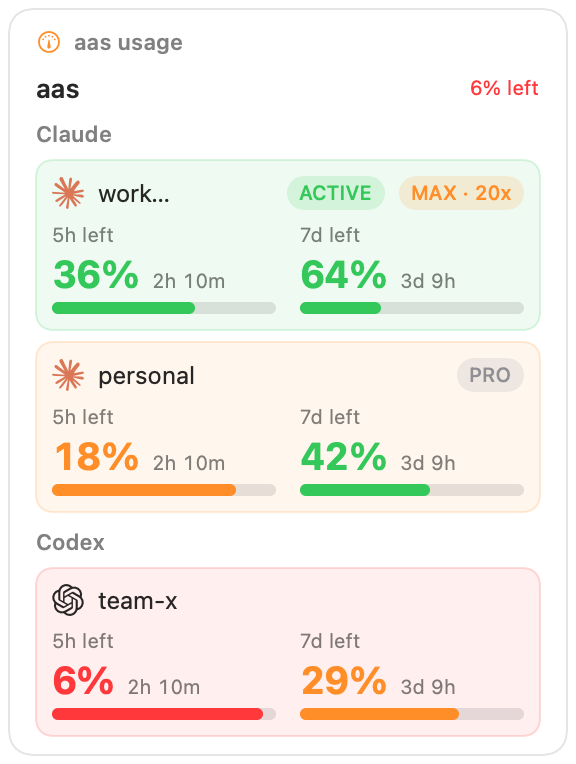
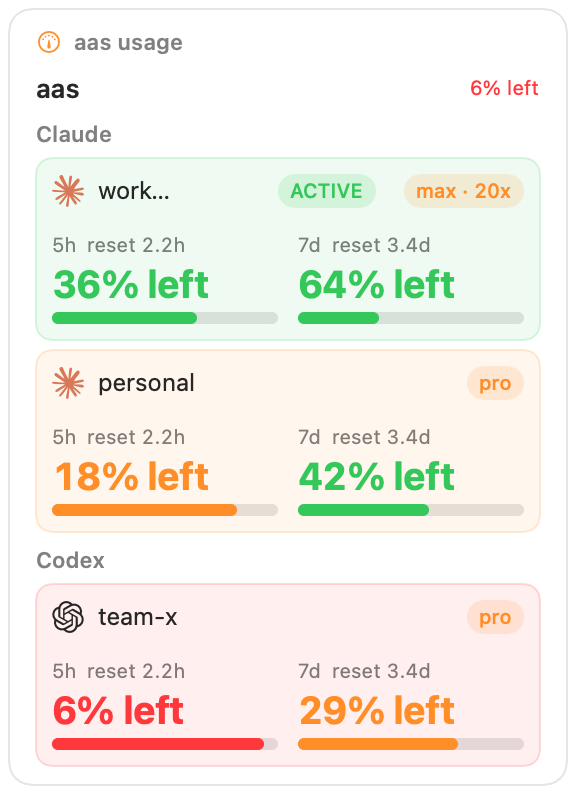
chore(release): prepare v0.1.8

diff --git a/crates/aas-cli/src/export.rs b/crates/aas-cli/src/export.rs
@@ -107,11 +107,7 @@ pub fn cmd_export(store: &AccountStore, name: &str, shell: Shell) -> anyhow::Res
                 vars.push(("ZAI_KEY", k.clone()));
             }
         }
-        "pi" => {
-            if !system {
-                vars.push(("PI_CODING_AGENT_DIR", home));
-            }
-        }
+        "pi" if !system => vars.push(("PI_CODING_AGENT_DIR", home)),
         _ => {}
     }
 

diff --git a/CHANGELOG.md b/CHANGELOG.md
@@ -5,6 +5,8 @@ All notable user-facing changes are recorded here. The format follows
 
 ## [Unreleased]
 
+## [0.1.8] - 2026-07-15
+
 ### Added
 
 - Added Pi as a first-class provider, including native `auth.json` load/switch, isolated profile
@@ -104,7 +106,8 @@ All notable user-facing changes are recorded here. The format follows
 - Hardened account storage, provider adapters, proxy authentication, retries, installers, and
   portable app packaging.
 
-[Unreleased]: https://github.com/Open330/aas/compare/v0.1.7...HEAD
+[Unreleased]: https://github.com/Open330/aas/compare/v0.1.8...HEAD
+[0.1.8]: https://github.com/Open330/aas/compare/v0.1.7...v0.1.8
 [0.1.7]: https://github.com/Open330/aas/compare/v0.1.6...v0.1.7
 [0.1.6]: https://github.com/Open330/aas/compare/v0.1.5...v0.1.6
 [0.1.5]: https://github.com/Open330/aas/compare/v0.1.4...v0.1.5

diff --git a/docs/DESIGN.md b/docs/DESIGN.md
@@ -1,6 +1,6 @@
 # aas — Agent Account Switcher (Rust) — Design Document
 
-> Status: **IMPLEMENTED** — Updated for aas v0.1.7. `PARITY_SPEC.md` remains the contract for
+> Status: **IMPLEMENTED** — Updated for aas v0.1.8. `PARITY_SPEC.md` remains the contract for
 > inherited `asx` behavior; aas-only extensions are identified explicitly.
 
 `aas` is a from-scratch Rust rewrite of [`asx`](https://github.com/enif-lee/asx), a

diff --git a/docs/PARITY_SPEC.md b/docs/PARITY_SPEC.md
@@ -5,7 +5,7 @@ commits `fa24cfa` and `0e819cd`). Every
 `file:line` points into `/Users/june/personal/asx/src/`. This is the port checklist; wire
 contracts (endpoints/headers/JSON shapes) must **not** drift.
 
-This document separates inherited parity from aas-only extensions. As of v0.1.7, the extensions
+This document separates inherited parity from aas-only extensions. As of v0.1.8, the extensions
 are deterministic account sorting, the typed `usage --json` integration contract, portable
 credential export/import, and optional passphrase-encrypted vault bundles; see §J.
 